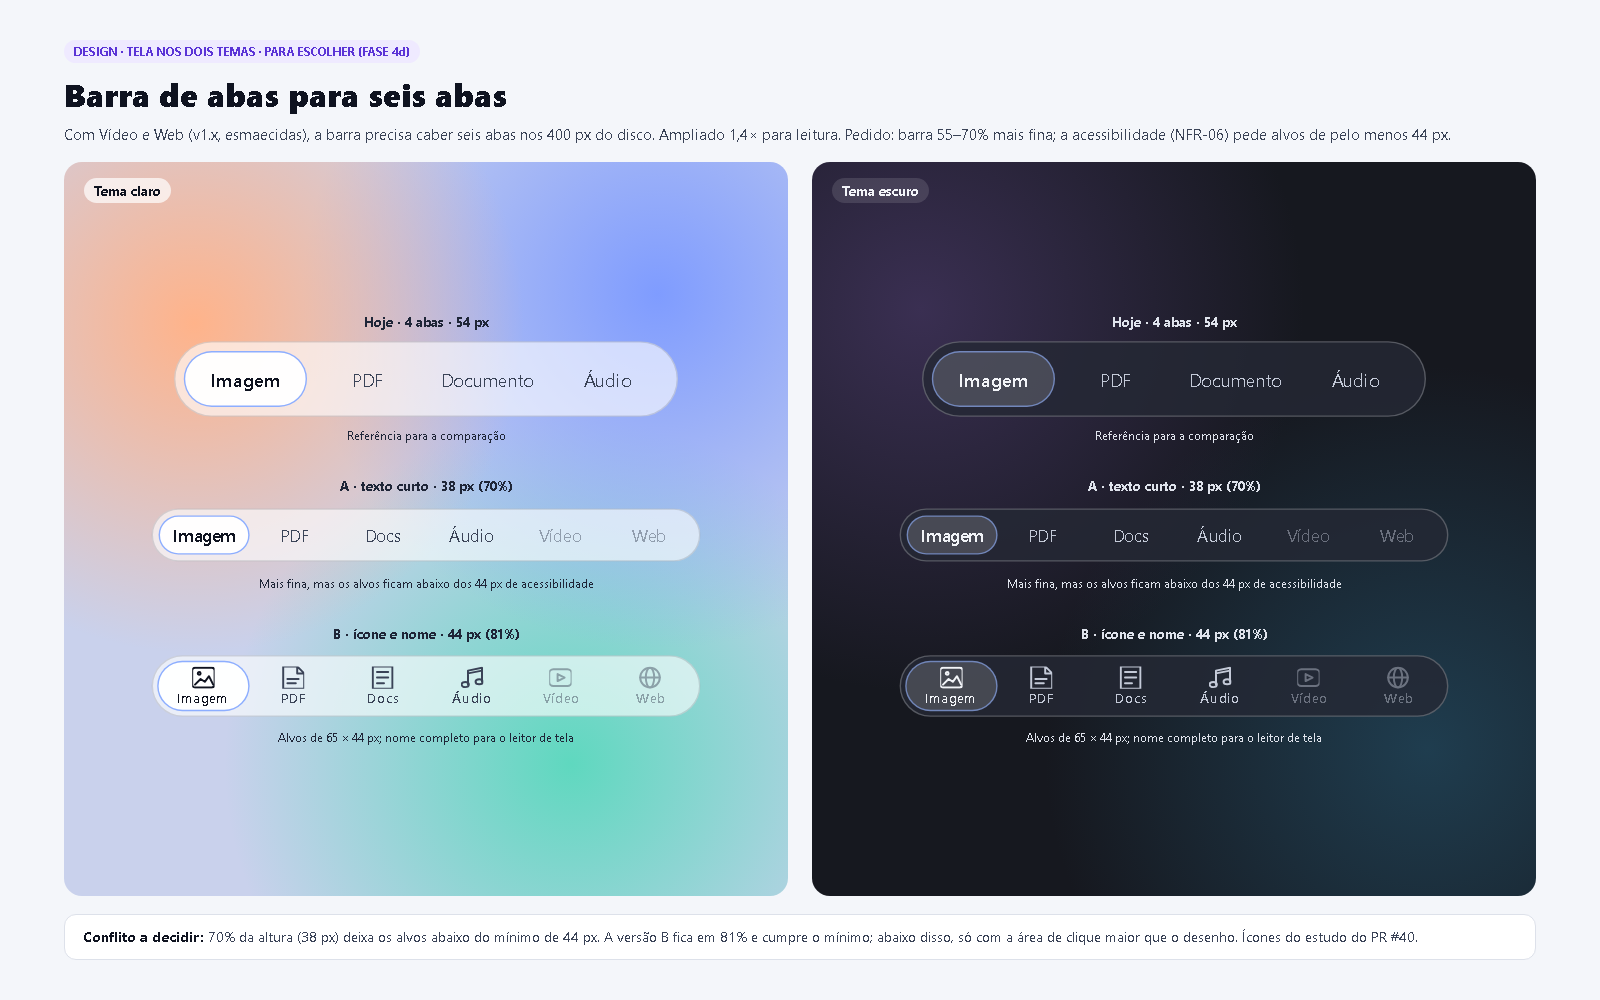
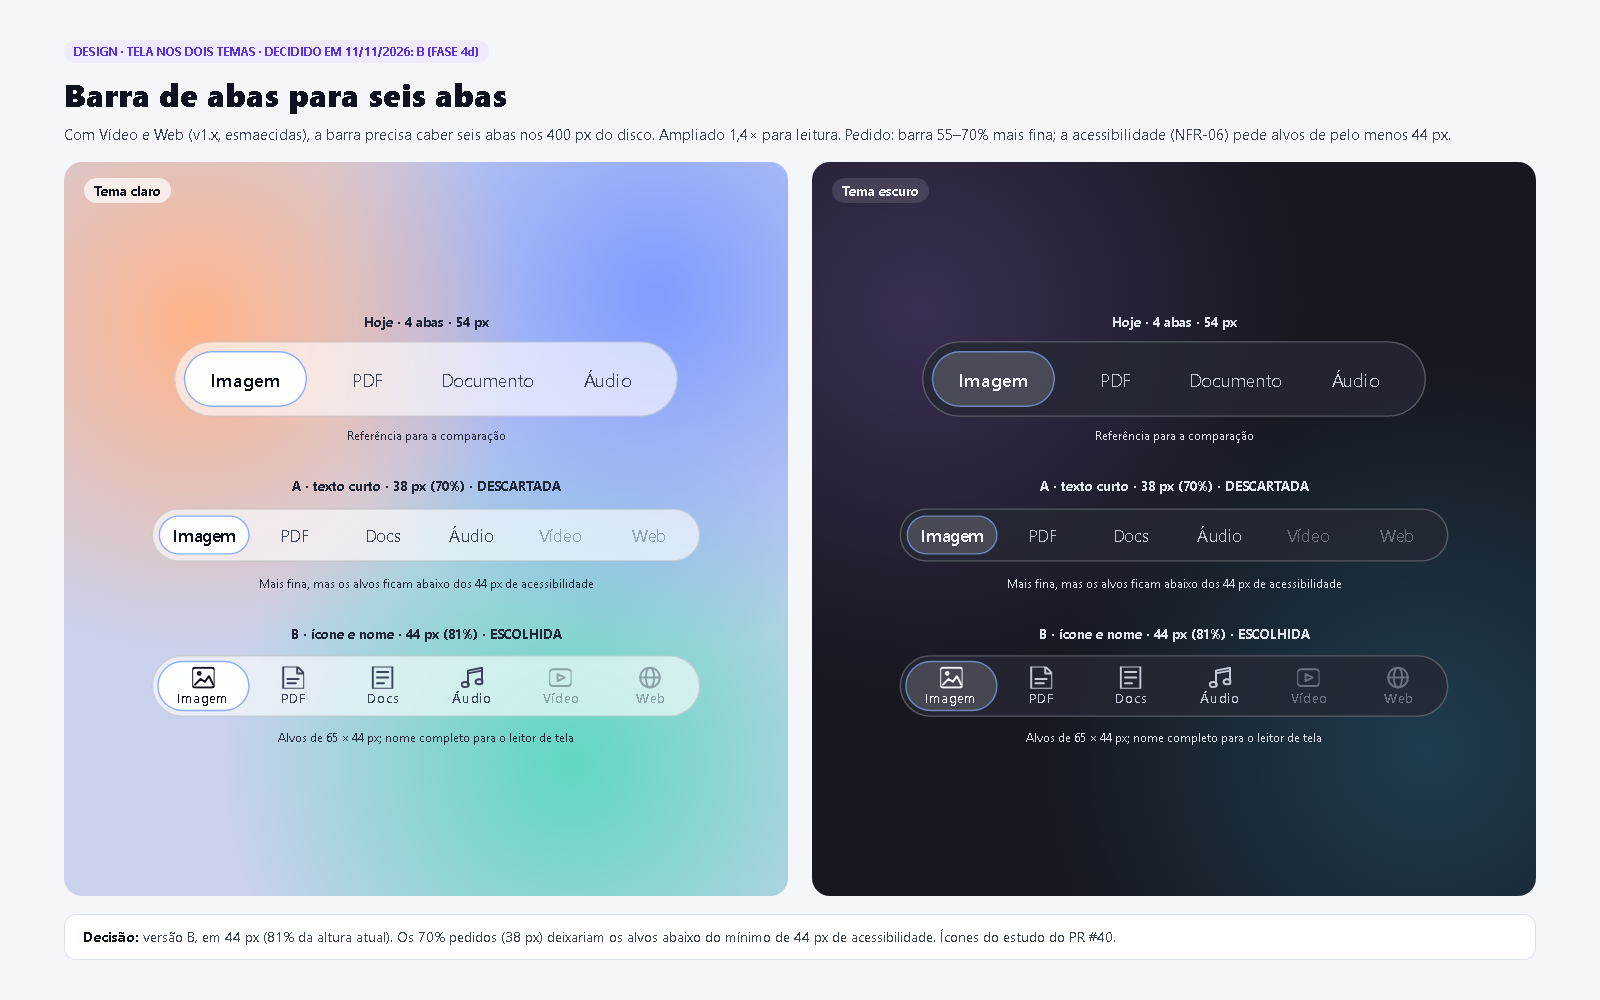
docs: barra de abas B escolhida (ícone e nome, 44 px)
Decisão do mantenedor em 11/11/2026, na prancha Ref-Barra-Abas. SPECS, ADR-026, ideias descartadas e pranchas atualizados; a versão A (38 px) sai por deixar os alvos abaixo dos 44 px de acessibilidade.

diff --git a/docs/SPECS.md b/docs/SPECS.md
@@ -124,7 +124,7 @@ Decisões das rodadas de alinhamento de 08/11/2026. **Onde houver conflito, esta
 | SEC-57 | Confirmado: o MSI só avisa que há versão nova | — |
 | Escolha por clique (detalhes) | O botão direito numa fatia também escolhe: abre o painel de opções e, em formato sem opções, converte direto. No disco, fora das fatias, nenhum botão faz nada. Depois de 10 s sem interação (mouse, roda ou teclado), a escolha fecha; cada interação reinicia a contagem | 025 |
 | FR-04 e FR-20 (Fase 4b) | Acima do disco, uma faixa mostra os níveis da fatia em hover, em todas as abas (exemplo: "Nível de compressão: Impressão, Escritório, Tela"). A faixa mostra só a opção principal de cada formato (Qualidade em JPG, WEBP e AVIF; Resolução em PNG e PDF; Tamanho em ICO) e some em formato sem opções. Soltar ou clicar no nível escolhe; com o cursor sobre a faixa, a roda troca o nível, e no resto do menu continua trocando a aba. Soltar ou clicar na fatia usa o nível padrão, e o painel completo abre no botão direito. Uma bolha de vidro (liquid glass) desliza entre abas, fatias e níveis. O desenho final sai numa prancha do Dossiê e num ADR da Fase 4b | — |
-| Barra de abas (Fase 4d) | Fica mais fina, entre 55% e 70% da altura atual, e cabe seis abas (com Vídeo e Web): texto encurtado ou ícone com o nome pequeno embaixo, a escolher numa prancha do Dossiê | 026 |
+| Barra de abas (Fase 4d) | Fica mais fina, entre 55% e 70% da altura atual, e cabe seis abas (com Vídeo e Web). Escolhida em 11/11/2026 a versão B: ícone com o nome curto embaixo, 44 px de altura (81% da atual, o mínimo de acessibilidade), alvos de cerca de 65 × 44 px e nome completo para o leitor de tela (prancha Ref-Barra-Abas) | 026 |
 | Temas do vidro (Fase 8) | Na tela de Configuração, paletas opcionais em degradê pastel, no estilo do fundo das pranchas de referência do Dossiê | — |
 | Sobre (Fase 8) | A seção Sobre da Configuração mostra a frase do projeto: "Afinal, tudo acaba em pizza." | — |
 | NFR-01 | A meta de 20 MB vale para a **memória privada** do residente, a coluna Memória do Gerenciador de Tarefas. O conjunto de trabalho total também conta DLLs do Windows compartilhadas com o Explorer (shell32, windows.storage, combase), exigidas pelo arrastar e soltar em qualquer linguagem. Medição de 10/11/2026, em repouso: 7,8 MB privados e 24 MB de conjunto de trabalho. A Fase 5 mede também com o menu aberto | — |

diff --git a/docs/adr/026-aba-video-e-motores.md b/docs/adr/026-aba-video-e-motores.md
@@ -12,7 +12,7 @@ A SPECS previa uma aba única de Áudio/Vídeo para a v1.x. O mantenedor pediu u
 - **Duas abas:** Áudio e Vídeo ficam separadas. O menu já abre na aba do tipo do arquivo arrastado, então quem arrasta um vídeo cai direto nos formatos de vídeo. Separadas, cada aba cabe numa volta de seis fatias, ou quase; juntas, passariam de onze formatos. "Extrair áudio" fica na aba Vídeo, porque é o vídeo que se arrasta.
 - **Dois motores:** o Media Foundation do Windows cobre os casos comuns (MP4, H.264, extrair áudio, reduzir resolução), com aceleração por placa de vídeo e sem aumentar o instalador. O FFmpeg empacotado cobre o que o Windows não traz (WebM, AV1, MKV). Antes de entrar, o FFmpeg passa pela análise de licença e de patentes que a SPECS já exige para o HEVC, e roda como os demais interpretadores: só dentro do Worker isolado, sem rede (SEC-20). A regra de qual motor atende cada formato, e o que fazer quando um codec não estiver disponível, é definida antes do código. Ter o codec instalado no Windows não resolve, por si só, os direitos de distribuição do Pizza: isso entra na mesma análise.
 - **Linguagem:** o C# continua. O trabalho pesado é decodificar e codificar, e isso acontece dentro dos codecs nativos; a linguagem do Pizza só orquestra.
-- **Barra de abas:** com Vídeo e Web, serão seis abas. A barra mais fina da Fase 4d (55–70% da altura atual) precisa caber nelas. A proposta é ícone com o nome curto embaixo (Imagem, PDF, Docs, Áudio, Vídeo, Web), com o nome completo para o leitor de tela, foco visível e alvos de pelo menos 44 px ([estudo](../propostas/barra-compacta.svg)). A escolha final, contra o texto encurtado, sai numa prancha do Dossiê. Nenhuma aba futura é ativada antes da sua fase.
+- **Barra de abas:** com Vídeo e Web, serão seis abas. A barra mais fina da Fase 4d, pedida com 55–70% da altura atual, precisa caber nelas. A proposta é ícone com o nome curto embaixo (Imagem, PDF, Docs, Áudio, Vídeo, Web), com o nome completo para o leitor de tela, foco visível e alvos de pelo menos 44 px ([estudo](../propostas/barra-compacta.svg)). O mantenedor escolheu essa versão (B) em 11/11/2026, na prancha Ref-Barra-Abas: 44 px de altura, 81% da atual, porque os 70% pedidos deixariam os alvos abaixo do mínimo de 44 px. Nenhuma aba futura é ativada antes da sua fase.
 
 ## Consequências
 

diff --git a/docs/ideias-descartadas/README.md b/docs/ideias-descartadas/README.md
@@ -22,6 +22,7 @@ Para reabrir uma ideia, crie um ADR novo que substitui o anterior (veja [`docs/a
 | Soltar fora do disco cancela | Soltar em qualquer lugar mantém o menu para escolher com um clique, sem precisar mirar | [ADR-025](../adr/025-escolha-por-clique-apos-o-gesto.md) |
 | Fechar a escolha em prazo fixo, ou só depois de 30 s | Fecharia enquanto a pessoa navega no touchpad, ou ocuparia demais uma tela pequena: o prazo é de 10 s sem interação | [ADR-025](../adr/025-escolha-por-clique-apos-o-gesto.md) |
 | Texto das fatias na horizontal com arco leve (versão A) | A descrição longa não cabia nas fatias laterais sem quebrar a linha; ficou a curva completa (B) | [Dossiê](../dossie/README.md#referência--texto-das-fatias) |
+| Barra de abas só com texto curto, 38 px (versão A) | Os alvos ficariam abaixo dos 44 px de acessibilidade; ficou a versão B, com ícone e nome, em 44 px | [Dossiê](../dossie/README.md#referência--barra-de-abas-para-seis-abas) |
 | Marca ✓ na fatia escolhida | A fatia só fica em destaque, no mesmo vidro do hover; o ✓ aparece apenas no aviso de concluído | Pedido do mantenedor em 10/11/2026 |
 | Vidro fosco e escuro na fatia escolhida | Ficou escuro demais; voltou ao vidro translúcido do hover | Pedido do mantenedor em 10/11/2026 |
 

diff --git a/docs/dossie/README.md b/docs/dossie/README.md
@@ -55,7 +55,7 @@ Decidido em 10/11/2026: **B · Curva completa**, mostrada nos temas claro e escu
 
 ### Referência · barra de abas para seis abas
 
-Para escolher na Fase 4d: A (texto curto, 38 px) ou B (ícone e nome, 44 px), nos dois temas. A barra 70% mais fina deixa os alvos abaixo dos 44 px de acessibilidade (NFR-06).
+Decidido em 11/11/2026: **B · ícone e nome, 44 px**, para a Fase 4d. A versão A (texto curto, 38 px) foi descartada porque deixa os alvos abaixo dos 44 px de acessibilidade (NFR-06).
 
 ![Barra de abas](ref-barra-abas.png)
 
